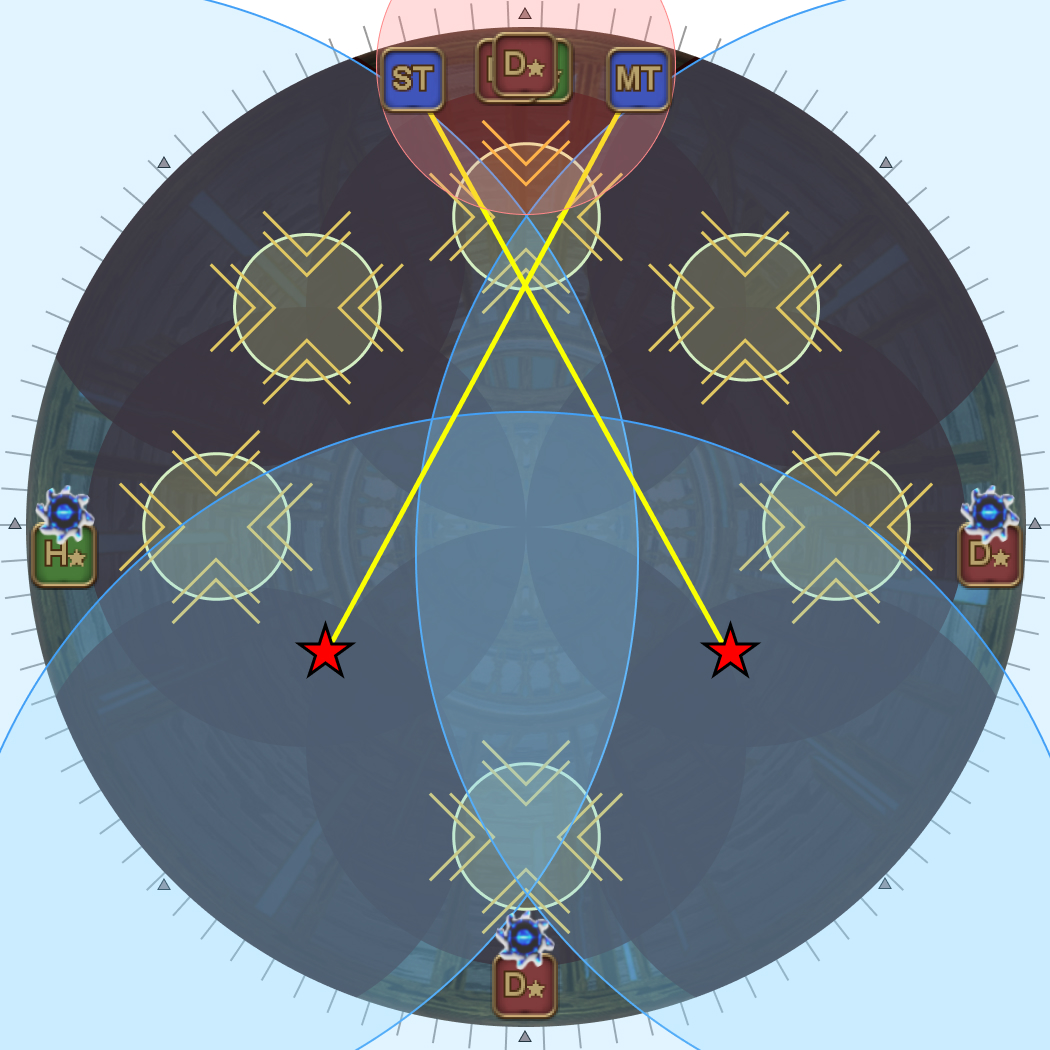
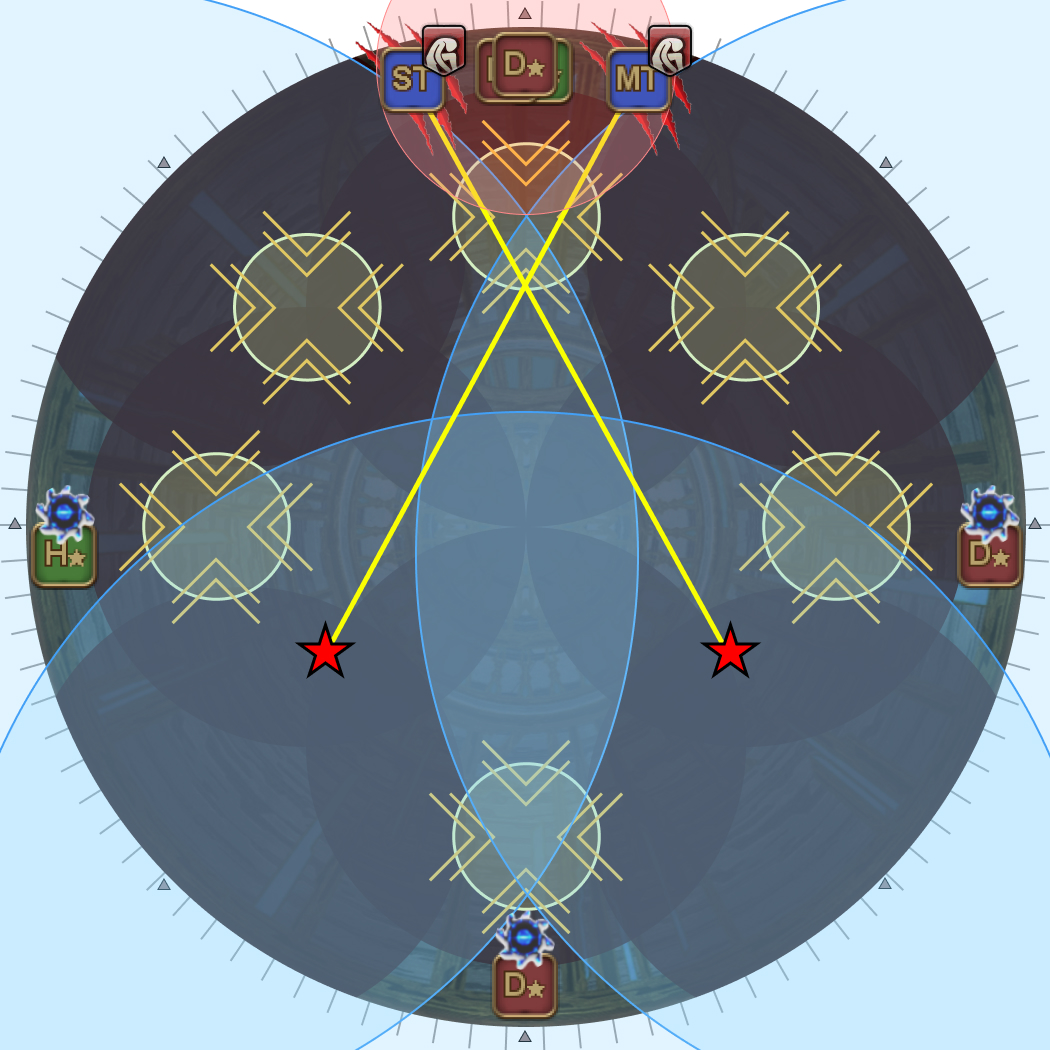
Finish P1 breakdown

Changed region(s): [[0.5486, 0.0, 0.6705, 0.1524], [0.3352, 0.0, 0.4571, 0.1524]]

diff --git a/ultimates/dsr/01_adelphel_and_grinnaux/index.en.md b/ultimates/dsr/01_adelphel_and_grinnaux/index.en.md
@@ -18,6 +18,10 @@ If you are already familiar with Adelphel and Grinnaux, and just need a summary:
     <td><ul><li>South → North</li></ul></td>
   </tr>
   <tr>
+    <td><b>Silence</b></td>
+    <td><ul><li>ST → D3 → ST</li></ul></td>
+  </tr>
+  <tr>
     <td><b>Playstation</b></td>
     <td><pre><code>D△  T× T□
 D〇　 　D〇
@@ -26,6 +30,26 @@ D□ H× H△</code></pre></td>
   <tr>
     <td><b>Pure of Heart</b></td>
     <td><ul><li>HMRT</li></ul></td>
+  </tr>
+</table>
+
+## Opener
+
+<table>
+  <tr>
+    <td width="50%"><p><b>1.</b> The two tanks will take the two bosses and stack them in the middle.</p>
+    <ul>
+      <li><b>MT:</b> Take Ser Grinnaux (the east boss)</li>
+      <li><b>ST:</b> Take Ser Adelphel (the west boss)</li>
+    </ul>
+    <p>Try to keep Ser Adelphel a little north of Ser Grinnaux to give more space for the upcoming combination.</p>
+    <ul>
+      <li>Ser Adelphel will tether a random player- this tether should be taken by the MT and invulned.</li>
+      <li>Ser Grinnaux will use <em>Empty Dimension</em>, which is a donut AoE.</li>
+      <li>Ser Charibert will target the furthest player from North with <em>Heavensflame</em>, which is a shared stack.</li>
+    </ul>
+    </td>
+    <td><img src="images/adelphel_grinnaux_01.jpg"></td>
   </tr>
 </table>
 
@@ -53,9 +77,10 @@ D□ H× H△</code></pre></td>
     <td><img src="images/hyperdimensional_slash_02.jpg"></td>
   </tr>
   <tr>
-    <td><p><b>3.</b> Ser Adelphel will reappear at a <b>random</b> cardinal edge and cast another <em>Holiest of Holy</em>.</p><p>Ser Grinnaux simultaneously casts <em>Faith Unmoving</em>, a knockback that can be nullified with Arm's Length or Surecast. Be sure not to get knocked back into any of the void puddles along the wall.</p>
+    <td><p><b>3.</b> Ser Adelphel will reappear at a <b>random</b> cardinal edge and cast another <em>Holiest of Holy</em>.</p><p>Ser Grinnaux will also cast <em>Faith Unmoving</em>, a knockback that can be nullified with Arm's Length or Surecast. Be sure not to get knocked back into any of the void puddles along the wall.</p>
     <p>Ser Adelphel then dashes left or right to one of the <b>adjacent cardinal</b> walls.</p>
-    <p>The party moves towards <b>whichever side Adelphel dashed to first.</b></p></td>
+    <p>The party moves towards <b>whichever side Adelphel dashes to first.</b></p>
+    <p><em>(In this example, Ser Adelphel dashes to the left.)</em></p></td>
     <td><img src="images/hyperdimensional_slash_03.jpg"></td>
   </tr>
   <tr>
@@ -65,7 +90,7 @@ D□ H× H△</code></pre></td>
     <img src="images/hyperdimensional_slash_safe_spot.jpg"></td>
   </tr>
   <tr>
-    <td><p><b>5.</b> The ST then moves ahead of the party as Ser Adelphel will land on that player, knocking back and killing anyone else that gets hit.</p><p>The ST can invuln this hit.</p><p>Ser Adelphel will then begin to cast <em>Holiest Hallowing</em>. This must be interrupted (by the ST), or it will recover 50% HP to both Ser Adelphel and Ser Grinnaux.</p></td>
+    <td><p><b>5.</b> The ST moves ahead of the party as Ser Adelphel will land on that player, knocking back and killing anyone else that gets hit.</p><p>The ST can invuln this hit.</p><p>Ser Adelphel will then begin to cast <em>Holiest Hallowing</em>. This must be interrupted (by the ST), or it will recover 50% HP to both Ser Adelphel and Ser Grinnaux.</p></td>
     <td><img src="images/hyperdimensional_slash_05.jpg"></td>
   </tr>
 </table>
@@ -97,14 +122,22 @@ The MT recenters Ser Grinnaux to prepare for the Playstation mechanic.
 
 Ser Adelphel will then cast a second *Holiest Hallowing*, which should be interrupted by D3 this time.
 
+From here, the mechanics are straightforward- Ser Adelphel will cast another *Holiest of Holy* (raid-wide damage) while Ser Grinnaux will use either *Empty Dimension* (donut AoE) or *Full Dimension* (point-blank AoE).
+
+Ser Adelphel will then cast a third *Holiest Hallowing*, requiring another Silence, followed by another *Holest of Holy* (raid-wide damage).
+
+At this point, if both bosses are alive, they begin their enrage. If either boss dies, the other starts casting their enrage.
+
 ## Pure of Heart
 
-The general order goes HMRT (Healer → Melee → Ranged → Tanks).
+Ser Charibert now appears west and pulls the party into a ring.
+
+We resolve Ser Charibert's attacks in the order HMRT (Healer → Melee → Ranged → Tanks).
 
 - Ranged and melee alternate sides when dropping the Light Puddles.
 - Tanks are last so healers are not rushing to top up the party before Pure of Heart resolves.
 
-This method for Pure of Heart allows for [full melee uptime with minimal movement](https://clips.twitch.tv/SuaveOddArmadilloSeemsGood-VfDpqFIoUkVKUF7Q).
+This method allows for [full melee uptime with minimal movement](https://clips.twitch.tv/SuaveOddArmadilloSeemsGood-VfDpqFIoUkVKUF7Q).
 
 <table>
   <tr>
